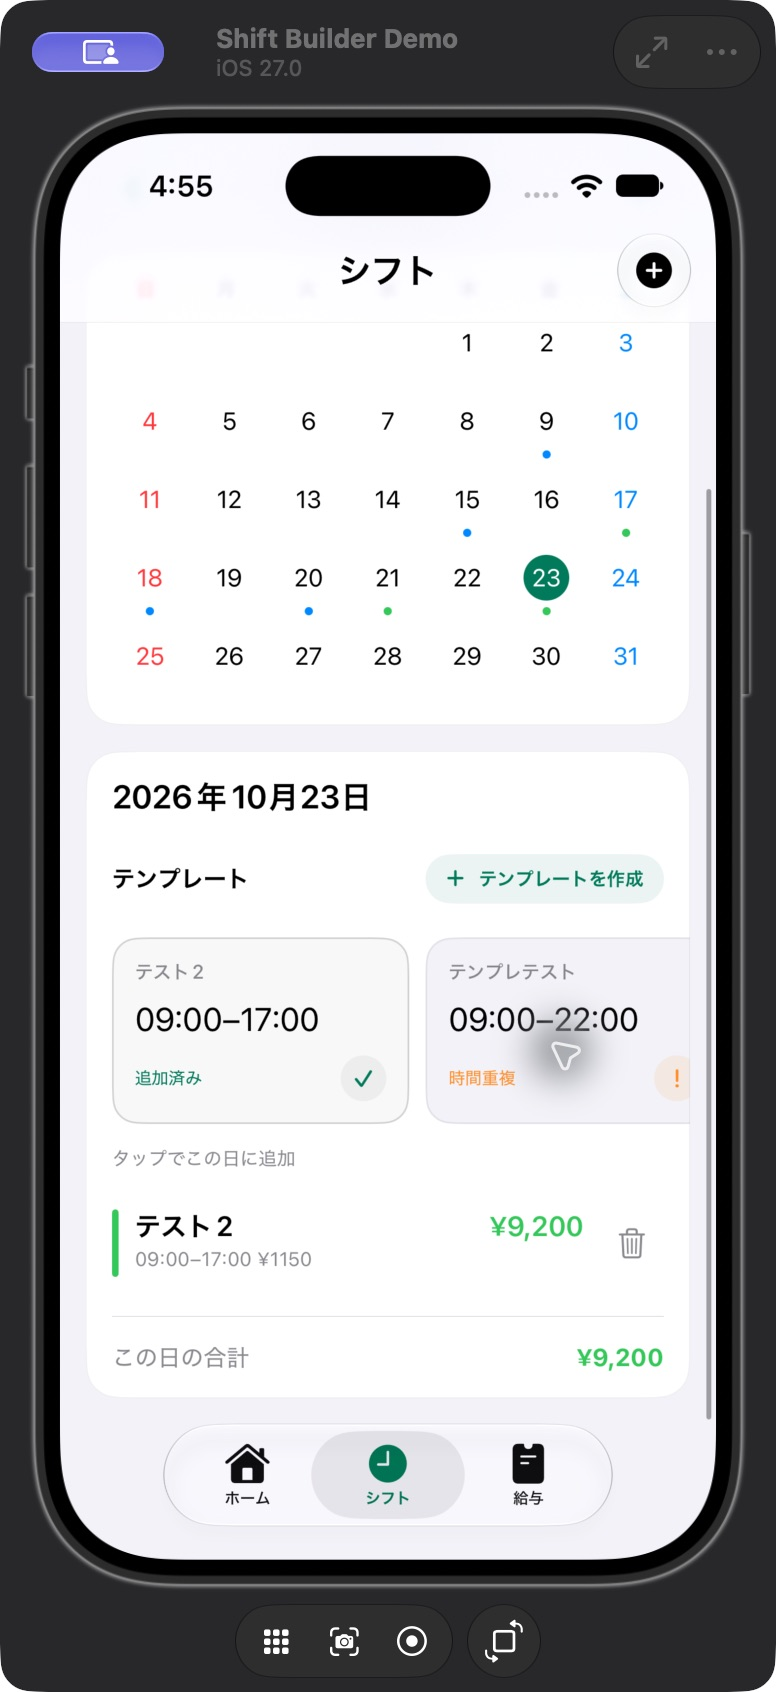
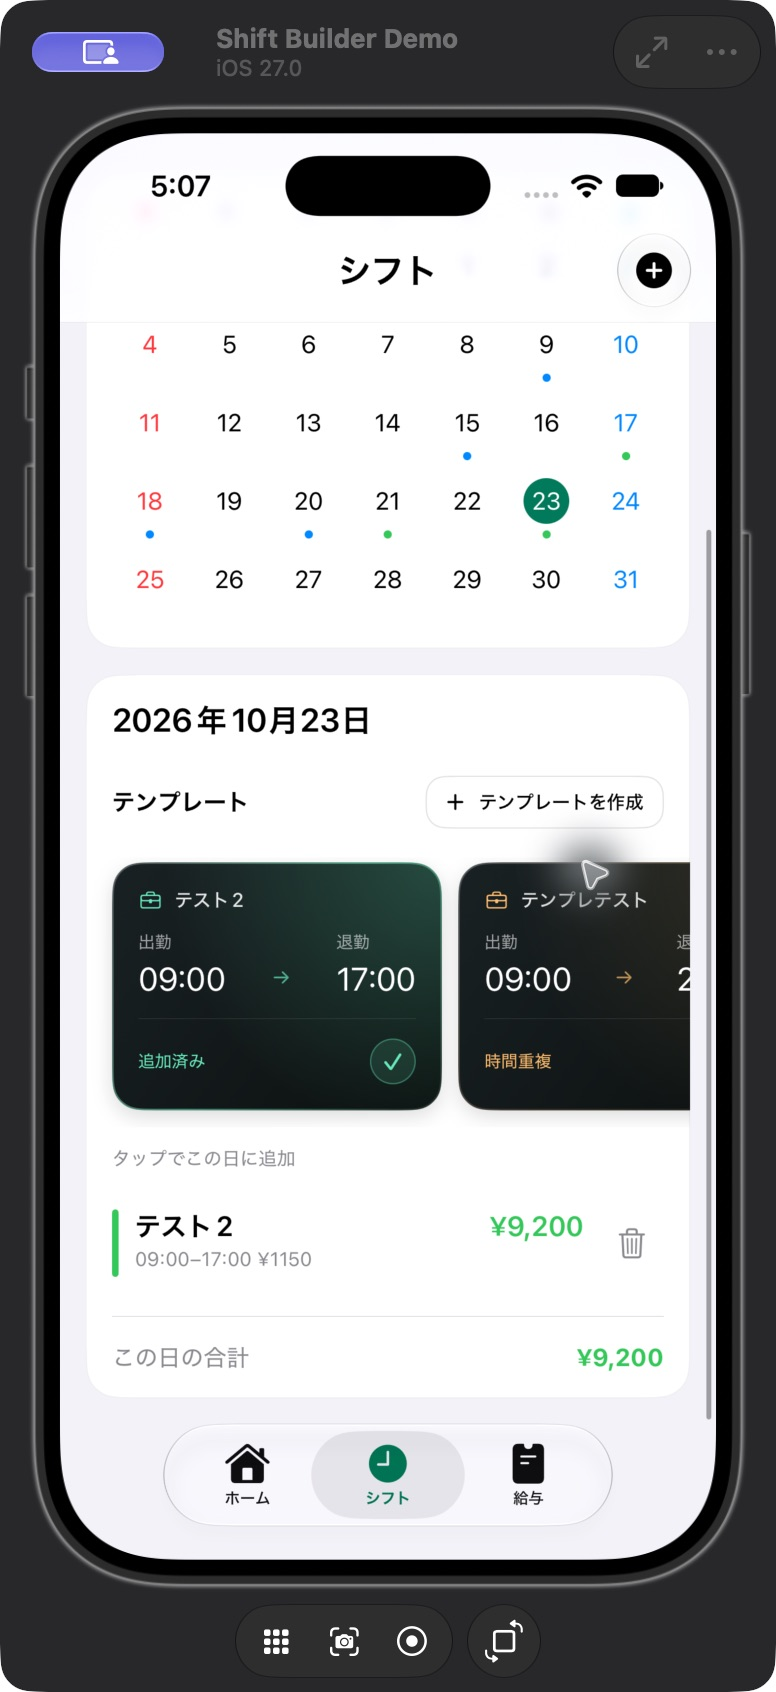
Match template cards to the dark emerald home design

diff --git a/ShiftManagerApp/ShiftManagerApp/ShiftsTab.swift b/ShiftManagerApp/ShiftManagerApp/ShiftsTab.swift
@@ -9,7 +9,7 @@ struct ShiftsTab: View {
     @Binding var month: String
     @Binding var requestedDate: String?
 
-    @ScaledMetric(relativeTo: .body) private var templateCardWidth: CGFloat = 182
+    @ScaledMetric(relativeTo: .body) private var templateCardWidth: CGFloat = 202
 
     @State private var selectedDate: String
     @State private var showAddSheet = false
@@ -363,10 +363,14 @@ struct ShiftsTab: View {
                 showTemplateSheet = true
             } label: {
                 Label("テンプレートを作成", systemImage: "plus")
-                    .font(.caption.weight(.semibold))
-                    .padding(.horizontal, 12).padding(.vertical, 8)
-                    .foregroundStyle(Color.accentColor)
-                    .background(Color.accentColor.opacity(0.08), in: Capsule())
+                    .font(.caption.weight(.medium))
+                    .padding(.horizontal, 12).padding(.vertical, 9)
+                    .foregroundStyle(.primary)
+                    .background(Color(.secondarySystemGroupedBackground), in: RoundedRectangle(cornerRadius: 12))
+                    .overlay {
+                        RoundedRectangle(cornerRadius: 12)
+                            .strokeBorder(Color.primary.opacity(0.12), lineWidth: 0.75)
+                    }
                     .frame(minHeight: 44)
                     .contentShape(Rectangle())
             }
@@ -429,7 +433,7 @@ struct ShiftsTab: View {
                             }
                         }
                         .padding(.horizontal, 16)
-                        .padding(.vertical, 2)
+                        .padding(.top, 3).padding(.bottom, 10)
                     }
                     .padding(.horizontal, -16)
                     .onChange(of: newlySavedTemplateKey) { _, key in
@@ -459,42 +463,58 @@ struct ShiftsTab: View {
     private func formatChip(_ format: ShiftFormat) -> some View {
         let added = isFormatAdded(format)
         let overlaps = !added && ShiftScenario.hasOverlap(format.source.repeated(on: selectedDate), with: store.shifts)
-        let accent: Color = overlaps ? .orange : .accentColor
-        let shape = RoundedRectangle(cornerRadius: 16, style: .continuous)
+        let mint = Color(red: 0.40, green: 0.91, blue: 0.73)
+        let signal = overlaps ? Color(red: 1, green: 0.74, blue: 0.43) : mint
+        let shape = RoundedRectangle(cornerRadius: 18, style: .continuous)
         return Button {
             quickAdd(format)
         } label: {
-            VStack(alignment: .leading, spacing: 10) {
-                Text(format.employer)
-                    .font(.caption.weight(.medium))
-                    .foregroundStyle(.secondary)
-                    .lineLimit(1)
+            VStack(alignment: .leading, spacing: 12) {
+                HStack(spacing: 7) {
+                    Image(systemName: "briefcase")
+                        .font(.caption2)
+                        .foregroundStyle(signal)
+                    Text(format.employer)
+                        .font(.caption.weight(.medium))
+                        .foregroundStyle(.white.opacity(0.88))
+                        .lineLimit(1)
+                    Spacer(minLength: 0)
+                }
 
                 if let first = format.segments.first, let last = format.segments.last {
-                    Text("\(ClockUtils.formatClock(first.startMinute))–\(ClockUtils.formatClock(last.endMinute))")
-                        .font(.title3.weight(.regular))
-                        .foregroundStyle(.primary)
-                        .lineLimit(1).minimumScaleFactor(0.8)
+                    HStack(alignment: .center, spacing: 6) {
+                        templateTime("出勤", minute: first.startMinute)
+                        Spacer(minLength: 0)
+                        Image(systemName: "arrow.right")
+                            .font(.system(size: 10, weight: .medium))
+                            .foregroundStyle(signal.opacity(0.7))
+                            .padding(.top, 15)
+                            .accessibilityHidden(true)
+                        Spacer(minLength: 0)
+                        templateTime("退勤", minute: last.endMinute)
+                    }
                 }
+
+                Rectangle().fill(.white.opacity(0.14)).frame(height: 0.5)
 
                 HStack(spacing: 6) {
                     VStack(alignment: .leading, spacing: 2) {
                         if added {
-                            Text("追加済み").foregroundStyle(Color.accentColor)
+                            Text("追加済み").foregroundStyle(signal)
                         } else if overlaps {
-                            Text("時間重複").foregroundStyle(.orange)
+                            Text("時間重複").foregroundStyle(signal)
                         } else if format.segments.count > 1 {
-                            Text("\(format.segments.count)区分").foregroundStyle(.secondary)
+                            Text("\(format.segments.count)区分").foregroundStyle(.white.opacity(0.72))
                         } else if let segment = format.segments.first {
                             HStack(spacing: 3) {
                                 Text("時給")
                                 Text(yen(segment.hourlyWage))
                             }
-                            .foregroundStyle(.secondary)
+                            .foregroundStyle(.white.opacity(0.72))
                         }
                         if format.source.breakMinutes > 0 {
                             Text("休憩\(format.source.breakMinutes)分")
-                                .foregroundStyle(.secondary)
+                                .foregroundStyle(.white.opacity(0.62))
                         }
                     }
                     .font(.caption2)
@@ -502,21 +522,34 @@ struct ShiftsTab: View {
                     Spacer(minLength: 0)
                     Image(systemName: added ? "checkmark" : (overlaps ? "exclamationmark" : "plus"))
                         .font(.caption.weight(.semibold))
-                        .foregroundStyle(accent)
+                        .foregroundStyle(added || overlaps ? signal : Color(red: 0.05, green: 0.16, blue: 0.13))
                         .frame(width: 28, height: 28)
-                        .background(accent.opacity(0.1), in: Circle())
+                        .background(added || overlaps ? signal.opacity(0.12) : signal, in: Circle())
+                        .overlay {
+                            Circle().strokeBorder(signal.opacity(added || overlaps ? 0.4 : 0), lineWidth: 0.75)
+                        }
                 }
                 .frame(minHeight: 28)
             }
-            .padding(14)
+            .padding(16)
             .frame(width: templateCardWidth, alignment: .leading)
-            .background(added ? Color.accentColor.opacity(0.06) : Color(.tertiarySystemGroupedBackground), in: shape)
-            .overlay {
-                shape.strokeBorder(added ? Color.accentColor.opacity(0.35) : Color.primary.opacity(0.07), lineWidth: 1)
+            .background {
+                LinearGradient(colors: [Color(red: 0.10, green: 0.13, blue: 0.14), Color(red: 0.045, green: 0.065, blue: 0.06)],
+                               startPoint: .topLeading, endPoint: .bottomTrailing)
+                    .overlay {
+                        RadialGradient(colors: [signal.opacity(added ? 0.25 : 0.14), .clear],
+                                       center: .topTrailing, startRadius: 0, endRadius: 170)
+                    }
             }
+            .clipShape(shape)
+            .overlay {
+                shape.strokeBorder(LinearGradient(colors: [.white.opacity(0.24), signal.opacity(added ? 0.55 : 0.16), .white.opacity(0.07)],
+                                                 startPoint: .topLeading, endPoint: .bottomTrailing), lineWidth: 1)
+            }
+            .shadow(color: .black.opacity(0.13), radius: 6, x: 0, y: 4)
             .contentShape(shape)
         }
-        .buttonStyle(TemplateCardButtonStyle())
+        .buttonStyle(TemplateCardButtonStyle(reduceMotion: reduceMotion))
         .disabled(added || overlaps)
         .accessibilityElement(children: .ignore)
         .accessibilityAddTraits(.isButton)
@@ -533,10 +566,25 @@ struct ShiftsTab: View {
         }
     }
 
-    /// Keep status text readable when the card is disabled after adding or overlapping.
+    private func templateTime(_ title: LocalizedStringKey, minute: Int) -> some View {
+        VStack(alignment: .leading, spacing: 4) {
+            Text(title).font(.caption2).foregroundStyle(.white.opacity(0.58))
+            Text(ClockUtils.formatClock(minute))
+                .font(.title3.weight(.regular))
+                .foregroundStyle(.white)
+                .lineLimit(1).minimumScaleFactor(0.8)
+        }
+    }
+
+    /// Keep disabled status legible; a small press response confirms the whole card is tappable.
     private struct TemplateCardButtonStyle: ButtonStyle {
+        let reduceMotion: Bool
+
         func makeBody(configuration: Configuration) -> some View {
-            configuration.label.opacity(configuration.isPressed ? 0.75 : 1)
+            configuration.label
+                .opacity(configuration.isPressed ? 0.9 : 1)
+                .scaleEffect(configuration.isPressed && !reduceMotion ? 0.98 : 1)
+                .animation(reduceMotion ? nil : .easeOut(duration: 0.15), value: configuration.isPressed)
         }
     }
 

diff --git a/docs/DESIGN.md b/docs/DESIGN.md
@@ -10,8 +10,8 @@
 - 作成だけでは実際の勤務・給与予定を増やさず、保存後は新しいテンプレートまで横スクロールする。手入力した勤務履歴も再利用できる。
 - 連続登録でタップ対象が動かないよう、勤務先・時間を基準に安定した順序で表示。
 - 5件を超えたパターンも横スクロールで選択可能。長押しで使わないものを非表示にできる。
-- テンプレート欄は見出しと作成ボタンを1行にまとめ、文字拡大で収まらない場合は縦に並べる。作成ボタンは淡い緑のカプセルで区別し、保存済みパターンの管理はその横に置く。
-- 横スクロールのカードは勤務先・大きめの勤務時間・時給や休憩の順に表示。通常は控えめなグレー、追加済みは緑の文字とチェック、重複時はオレンジの文字と記号で伝える。数字は標準書体の通常の太さ。
+- テンプレート欄は見出しと作成ボタンを1行にまとめ、文字拡大で収まらない場合は縦に並べる。作成ボタンは細い輪郭の白い角丸ボタンとし、保存済みパターンの管理はその横に置く。
+- 横スクロールのカードはホームと同じ黒・深いグリーンを基調に、薄い光、細い輪郭、短い影で奥行きを出す。勤務先の下に出勤・退勤を分けて並べ、罫線の下へ時給や休憩をまとめる。追加済みはミント色の文字とチェック、重複はアンバーの文字と記号で伝える。数字は標準書体の通常の太さを維持する。押したときだけ小さく反応し、「視差効果を減らす」では縮小を行わない。
 - 追加済みのチェックと触覚フィードバックで保存を伝える。
 - 重なる勤務を無効化し、保存直前にも再確認。異なる勤務先・日跨ぎも検証。
 - 明示的に保存したテンプレートは、そのパターンの全勤務を削除しても残る。保存していない履歴由来の候補は、履歴がなくなると消える。

diff --git a/docs/VALIDATION.md b/docs/VALIDATION.md
@@ -2,6 +2,12 @@
 
 2026-10-17更新。公開用コピーのSwift Packageテストと、同じ変更を反映した元アプリの保存テスト・ビルド・シミュレータ操作について、各確認日の結果を記載しています。iOSの全テスト群は再実行していません。
 
+## ホームと合わせたテンプレートカード（2026-10-17）
+
+テンプレートカードを黒・深いグリーンの背景に変更しました。淡い光、細い輪郭、影を加え、勤務先・出勤と退勤の時刻・時給や休憩を罫線で分けて配置します。追加操作はミント色、追加済みはチェック、時間重複はアンバーの文字と記号で表示します。作成ボタンは細い輪郭の白い角丸に整理しました。数字は標準書体の通常の太さです。
+
+LocalDeviceの署名なしarm64ビルドが成功し、iPhone 17 Pro／iOS 27シミュレータで通常・追加済み・重複表示を確認しました。空の23日にカードを1回タップして9,200円の勤務1件が入り、追加済みと他パターンの重複表示に切り替わることを確認しています。今回の確認用勤務だけを削除し、元からの記録を残しました。READMEのテンプレート画像も更新しています。保存・計算・同期に変更はなく、表示の調整ではロジックのテストを再実行していません。
+
 ## テンプレート欄のデザイン整理（2026-10-17）
 
 選択日の見出し横の「追加」を外し、手入力は右上のプラスへまとめました。テンプレート欄は見出しと淡い緑の作成ボタン、その下に勤務パターンのカードを並べます。カードは勤務先・大きめの勤務時間・時給や休憩を順に表示し、追加済みと重複の文字・記号を見分けられるようにしました。
